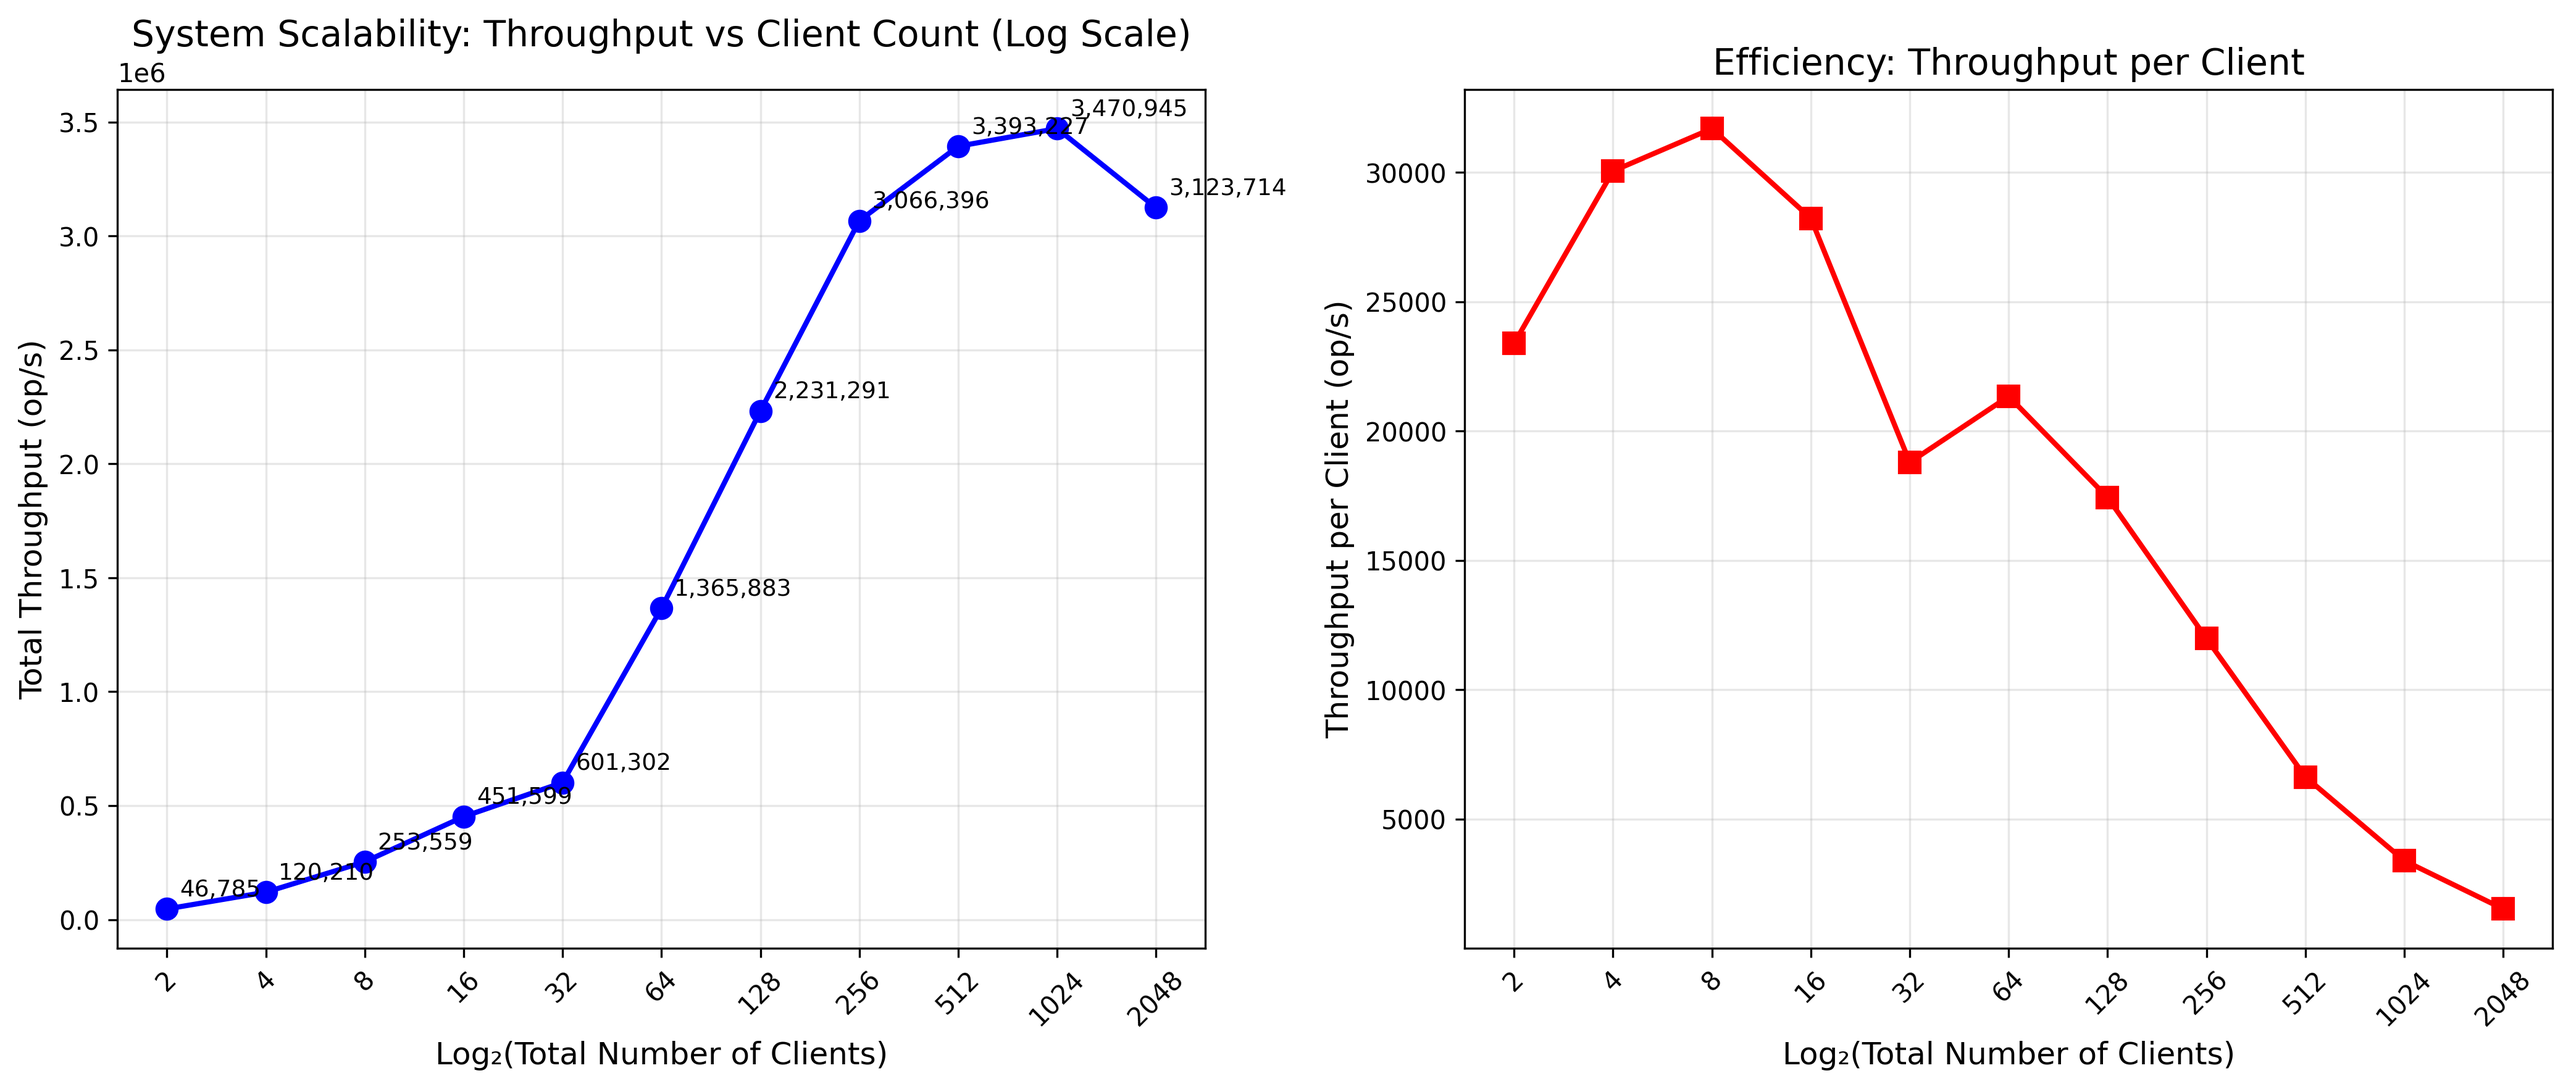
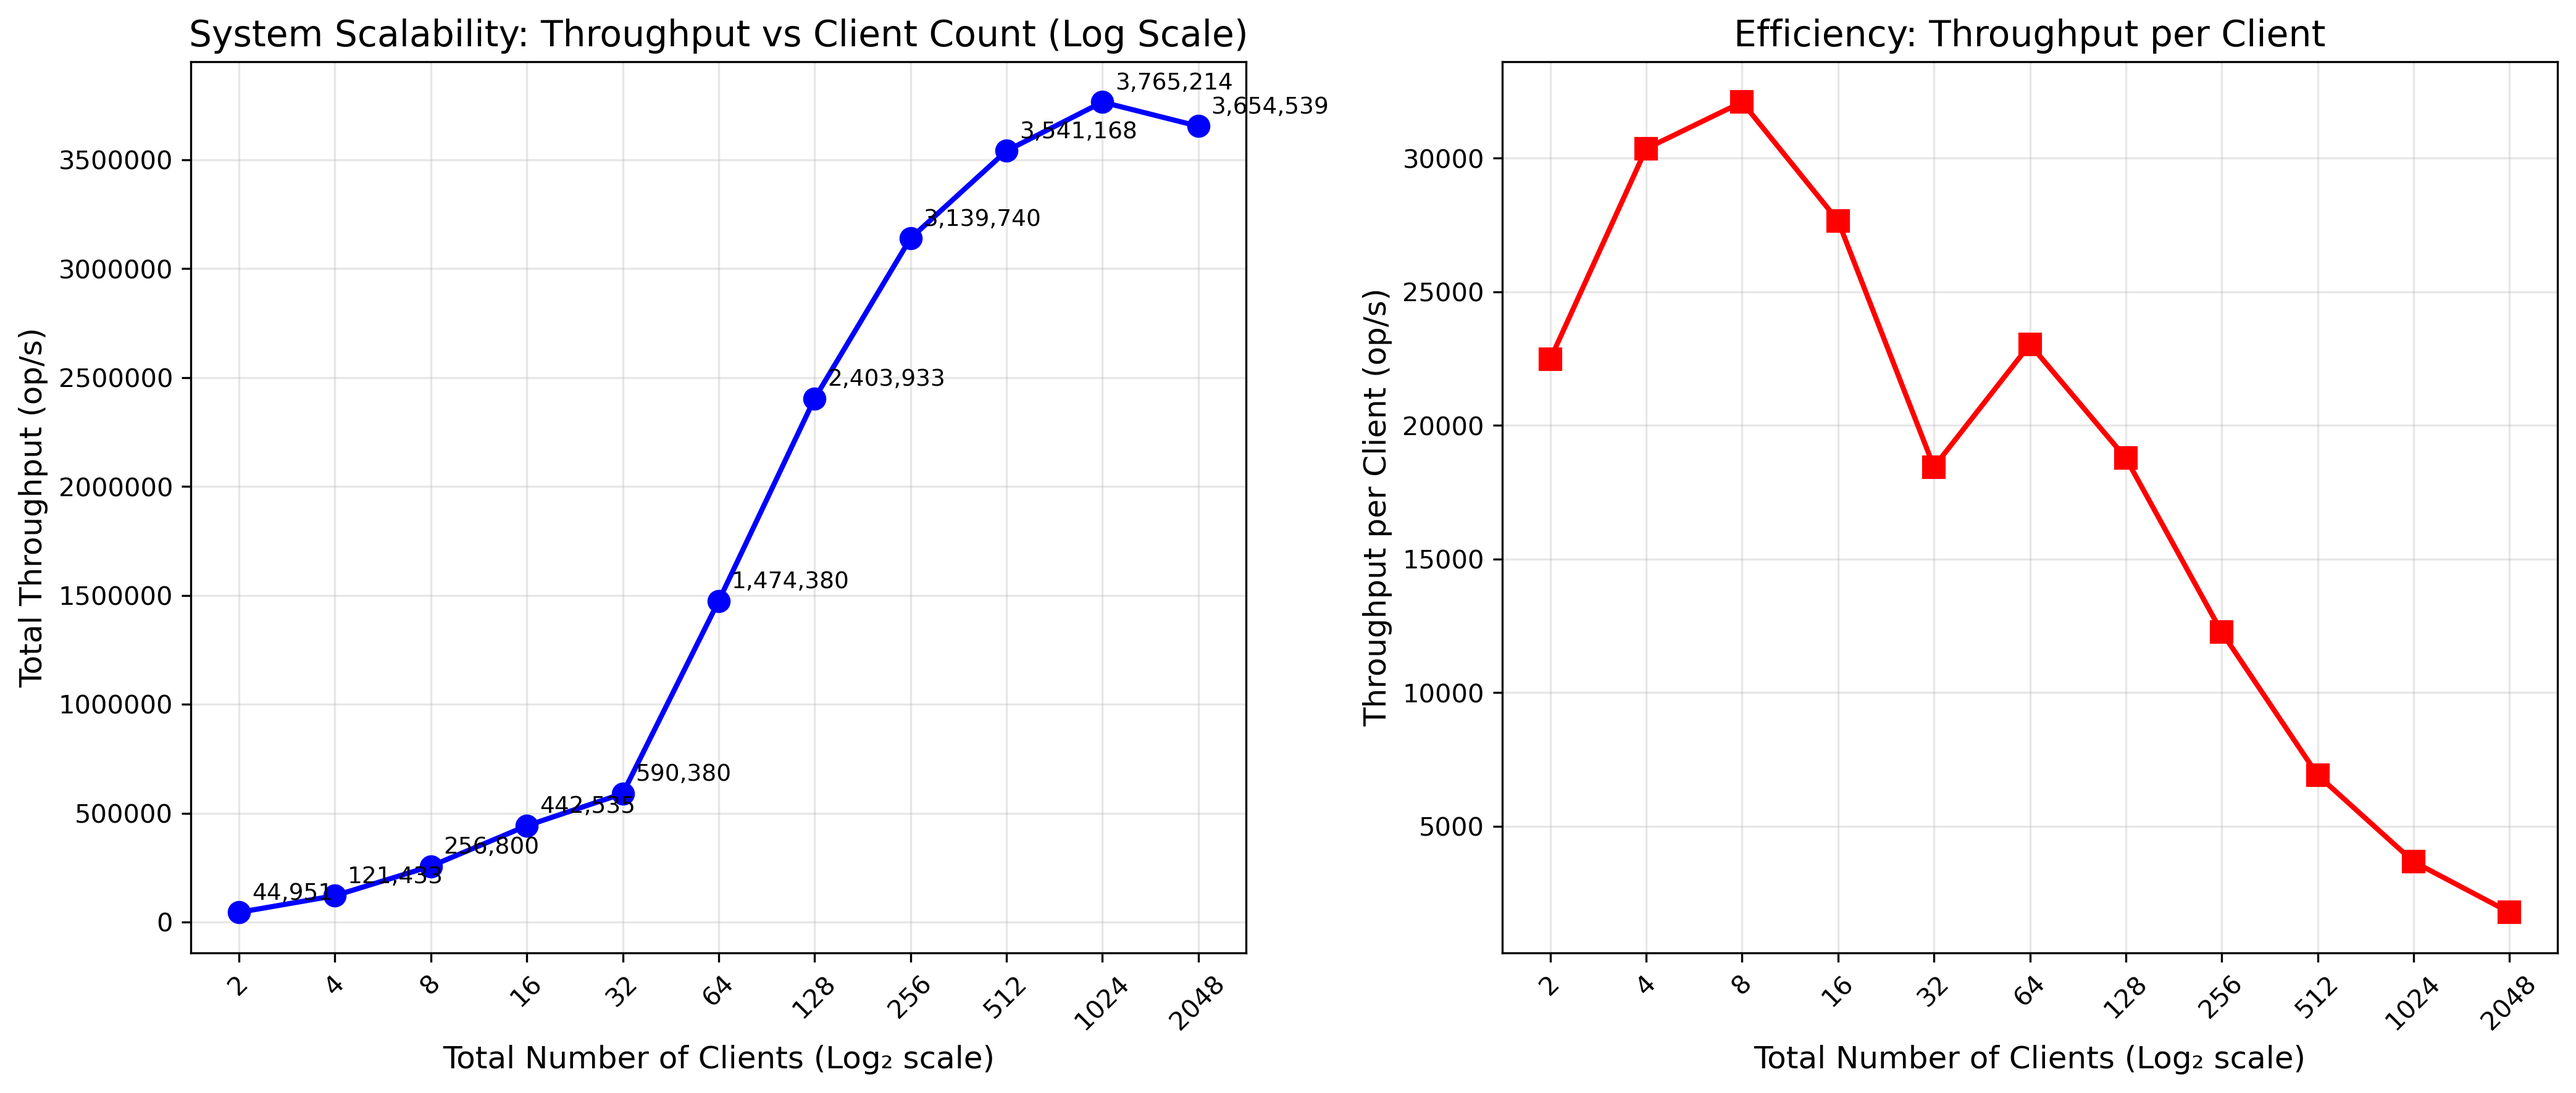
improve the client scale graph

diff --git a/scale/analyze_scalability.py b/scale/analyze_scalability.py
@@ -41,10 +41,11 @@ def analyze_scalability(filename='../scalability_results.txt'):
     
     # Plot 1: Log scale throughput vs clients
     ax1.plot(log_clients, throughputs, 'b-o', linewidth=2, markersize=8)
-    ax1.set_xlabel('Log₂(Total Number of Clients)', fontsize=12)
+    ax1.set_xlabel('Total Number of Clients (Log₂ scale)', fontsize=12)
     ax1.set_ylabel('Total Throughput (op/s)', fontsize=12)
     ax1.set_title('System Scalability: Throughput vs Client Count (Log Scale)', fontsize=14)
     ax1.grid(True, alpha=0.3)
+    ax1.ticklabel_format(style='plain', axis='y')  # Disable scientific notation on y-axis
     
     # Add value labels on points
     for i, (x, y) in enumerate(zip(log_clients, throughputs)):
@@ -61,7 +62,7 @@ def analyze_scalability(filename='../scalability_results.txt'):
     # Plot 2: Efficiency analysis (throughput per client)
     throughput_per_client = [t/tc for t, tc in zip(throughputs, total_clients)]
     ax2.plot(log_clients, throughput_per_client, 'r-s', linewidth=2, markersize=8)
-    ax2.set_xlabel('Log₂(Total Number of Clients)', fontsize=12)
+    ax2.set_xlabel('Total Number of Clients (Log₂ scale)', fontsize=12)
     ax2.set_ylabel('Throughput per Client (op/s)', fontsize=12)
     ax2.set_title('Efficiency: Throughput per Client', fontsize=14)
     ax2.grid(True, alpha=0.3)
